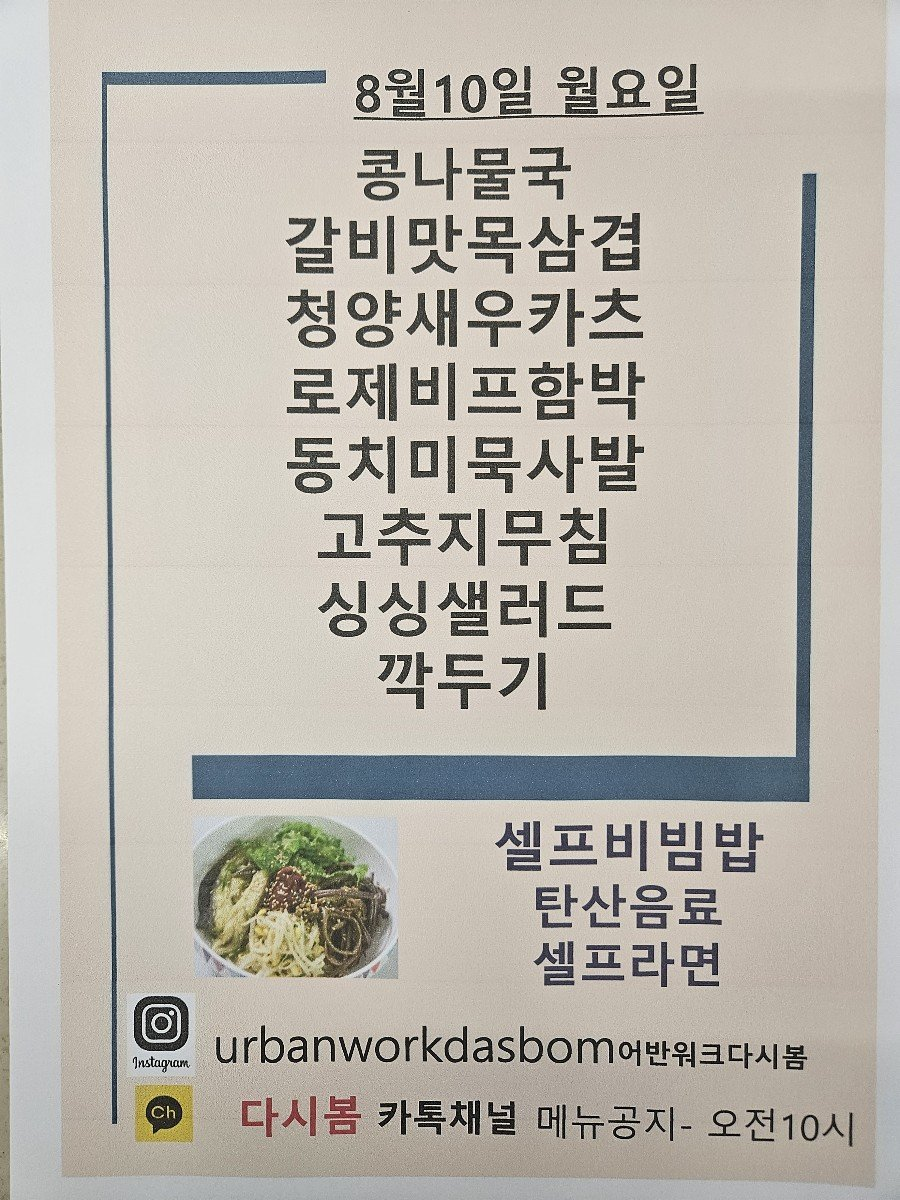
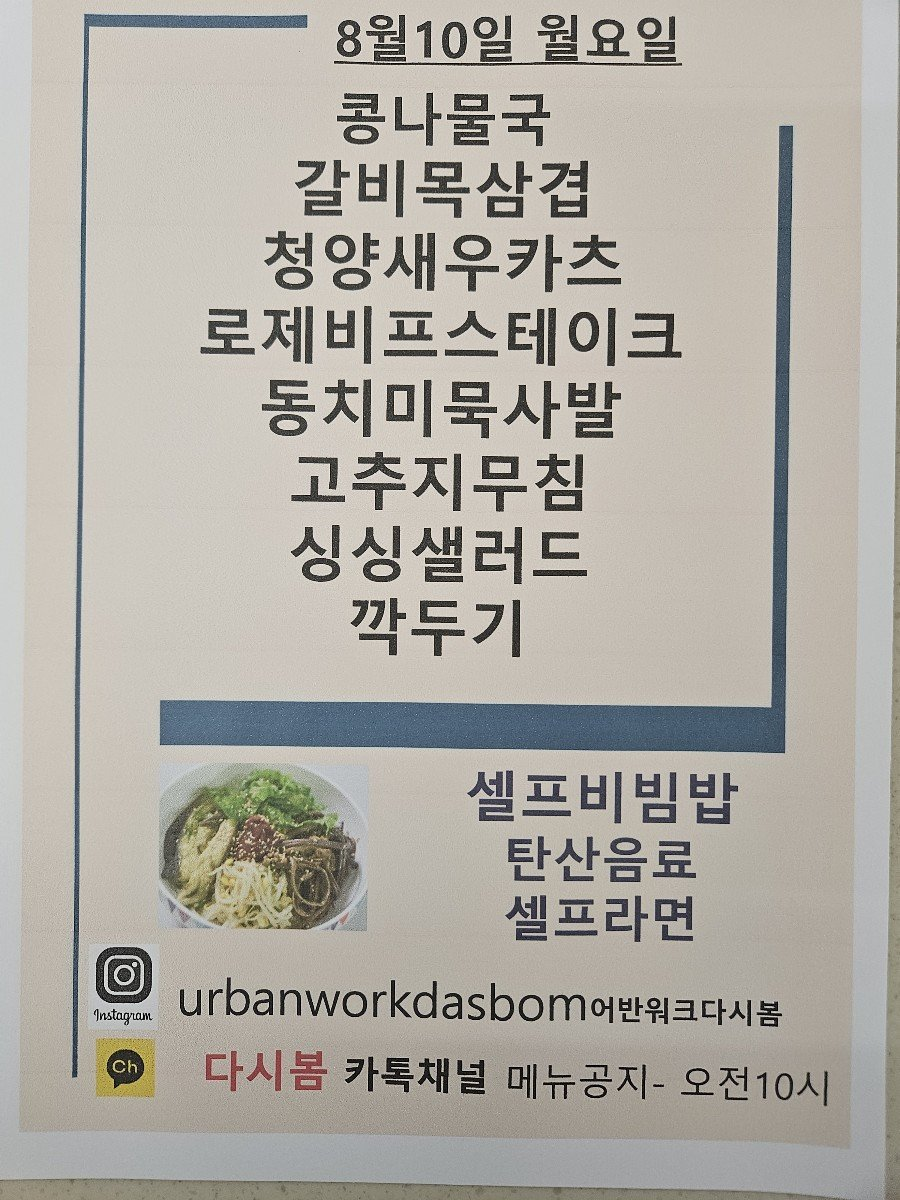
Update menu board assets

diff --git a/menu-today/index.html b/menu-today/index.html
@@ -209,7 +209,7 @@
 
     <section class="meta-bar">
       <div class="meta-card"><div class="meta-label">기준 날짜</div><div class="meta-value">2026년 8월 10일 월요일</div></div>
-      <div class="meta-card"><div class="meta-label">최종 가져온 시간</div><div class="meta-value">2026-08-10 10:03:13</div></div>
+      <div class="meta-card"><div class="meta-label">최종 가져온 시간</div><div class="meta-value">2026-08-10 10:13:06</div></div>
       <div class="meta-card"><div class="meta-label">확인 완료</div><div class="meta-value">9개 식당</div></div>
       <div class="meta-card"><div class="meta-label">준비중</div><div class="meta-value">3개 채널</div></div>
     </section>
@@ -235,7 +235,7 @@
             <div class="sub">가산 어반워크</div>
           </div>
         </div>
-        <div class="menu-inline-image"><img src="./images/dasibom.png" alt="다시 봄 식단 이미지"></div><ul><li>콩나물국</li><li>갈비맛목삼겹</li><li>정양새우카츠</li><li>로제비프함박</li><li>동치미묵사발</li><li>고주지무짐</li><li>싱싱샐러드</li><li>나물국</li><li>청양새우카츠</li></ul>
+        <div class="menu-inline-image"><img src="./images/dasibom.png" alt="다시 봄 식단 이미지"></div><ul><li>콩나물국</li><li>갈비목삼겹</li><li>정양새우카츠</li><li>로제비프스테이크</li><li>동지미묵사발</li><li>고추지무침</li><li>싱싱샐러드</li><li>로제비</li><li>테이크</li><li>후지미 고이</li></ul>
       </article>
 
       <article class="restaurant-card">
@@ -295,7 +295,7 @@
             <div class="sub">에이스테크노타워10차</div>
           </div>
         </div>
-        <div class="menu-inline-image"><img src="./images/thefoodsketch.png" alt="더푸드스케치 식단 이미지"></div><ul><li>미역국</li><li>버섯소불고기</li><li>후라이드 치킨 &amp; 와사비 소스</li><li>계란밀이</li><li>유니짜장 / 면사리</li><li>청양버터길릭어묵볶음</li><li>기 새우무조림</li><li>가든샐러드 / 드레싱</li><li>배추겉절이 / 음료</li></ul>
+        <div class="menu-inline-image"><img src="./images/thefoodsketch.png" alt="더푸드스케치 식단 이미지"></div><ul><li>미역국</li><li>버섯소불고기</li><li>후라이드 치킨 &amp; 와사비 소스</li><li>계란밀이</li><li>유니짜장 / 면사리</li><li>청양버터길릭어묵볶음</li><li>기 새우무조림</li><li>가든샐러드 &amp; 드레싱</li><li>배추겉절이 / 음료</li></ul>
       </article>
 
       <article class="restaurant-card">

diff --git a/guro-menu/index.html b/guro-menu/index.html
@@ -32,7 +32,7 @@
   </header>
   <section class="meta">
     <div><small>기준 날짜</small><strong>2026년 8월 10일 월요일</strong></div>
-    <div><small>최종 갱신</small><strong>2026-08-10 10:03:22</strong></div>
+    <div><small>최종 갱신</small><strong>2026-08-10 10:13:17</strong></div>
     <div><small>등록 식당</small><strong>5개</strong></div>
   </section>
   <div class="notice">공개 카카오 채널의 메뉴 이미지를 자동 수집하고 OCR로 정리합니다. 텍스트에 오타가 있을 수 있으니 식단 이미지를 함께 확인해 주세요.</div>
